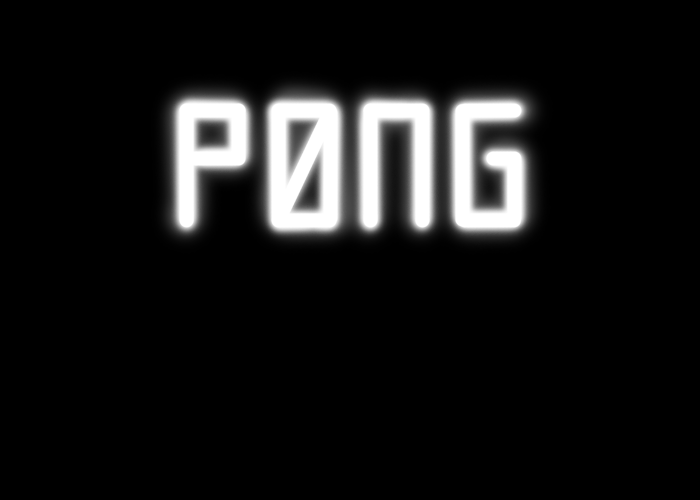
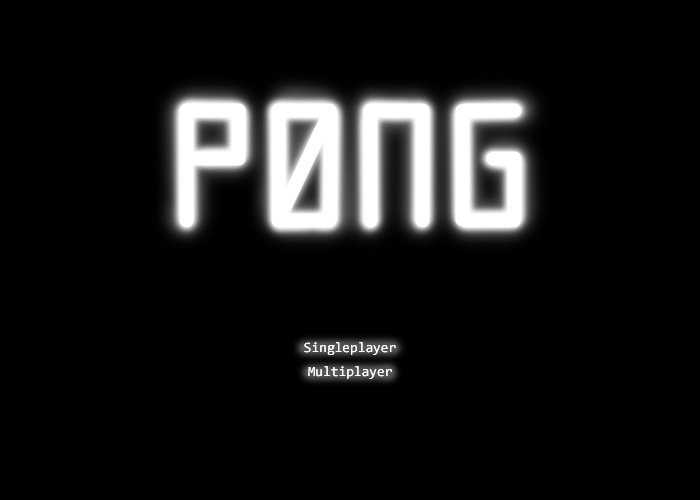
Added menu to IntroWorld

Changed region(s): [[0.42, 0.66, 0.57, 0.78]]

diff --git a/Ping/IntroWorld.java b/Ping/IntroWorld.java
@@ -12,6 +12,7 @@ public class IntroWorld extends GameWorld
     private long lastAdded = System.currentTimeMillis();
     private long lastPlayed = System.currentTimeMillis();
     private boolean textDrawn;
+    public static boolean multiPlayer = !false;
     GreenfootImage background = new GreenfootImage("introworldbg.png");
     GreenfootSound bgmusic = new GreenfootSound("insertcoin bgmusic.wav");
     
@@ -43,6 +44,7 @@ public class IntroWorld extends GameWorld
         addObject(player1AI, (int)player1AI.xPos, (int)player1AI.yPos);
         addObject(player2AI, (int)player2AI.xPos, (int)player2AI.yPos);
         addObject(ball, WORLD_WIDTH/2, WORLD_HEIGHT/2);
+        addObject(new MenuSelect(), 290, 348);
         
         // Adds the glow effect that sits behind the objects and overlay.
         player1AI.addGlow();
@@ -54,13 +56,29 @@ public class IntroWorld extends GameWorld
     {
         flashingText();
         backgroundMusic();
+        
         String key = Greenfoot.getKey();
-        if (key != null && key.equals("enter"))
+        
+        if (Greenfoot.isKeyDown("up"))
+        {
+            multiPlayer = false;
+        }
+        else if (Greenfoot.isKeyDown("down"))
+        {
+            multiPlayer = true;
+        }
+        
+        if (key != null && key.equals("enter") && multiPlayer == false)
         {
             bgmusic.stop(); //stops the music when entering a new world.
             Greenfoot.setWorld(new PingWorld(true));
         }
-        goToMultiplayer();
+        else if (key != null && key.equals("enter") && multiPlayer == true)
+        {
+            bgmusic.stop(); //stops the music when entering a new world.
+            Greenfoot.setWorld(new MultiplayerWorld());
+        }
+        
     }
     
     private void drawText()
@@ -123,6 +141,19 @@ public class IntroWorld extends GameWorld
         {
             bgmusic.stop(); //stops the music when entering a new world.
             Greenfoot.setWorld(new MultiplayerWorld());
+        }
+    }
+    
+    public void drawMenuSelect()
+    {
+        
+        if (Greenfoot.isKeyDown("b"))
+        {
+            multiPlayer = false;
+        }
+        else if (Greenfoot.isKeyDown("a"))
+        {
+            multiPlayer = true;
         }
     }
 }

diff --git a/Ping/MenuSelect.java b/Ping/MenuSelect.java
@@ -1,0 +1,37 @@
+import greenfoot.*;  // (World, Actor, GreenfootImage, Greenfoot and MouseInfo)
+
+/**
+ * Write a description of class MenuSelect here.
+ * 
+ * @author (your name) 
+ * @version (a version number or a date)
+ */
+public class MenuSelect extends Actor
+{   
+    
+    public MenuSelect()
+    {
+        GreenfootImage selectIcon = new GreenfootImage("menuselect.png");
+        selectIcon.scale(16, 16);
+        setImage(selectIcon);
+    }
+    /**
+     * Act - do whatever the MenuSelect wants to do. This method is called whenever
+     * the 'Act' or 'Run' button gets pressed in the environment.
+     */
+    public void act() 
+    {
+        if (Greenfoot.isKeyDown("up"))
+        {
+            setLocation(290, 348);
+            IntroWorld.multiPlayer = false;
+        }
+        else if (Greenfoot.isKeyDown("down"))
+        {
+            setLocation(290, 372);
+            IntroWorld.multiPlayer = true;
+        }
+        
+    }    
+   
+}
